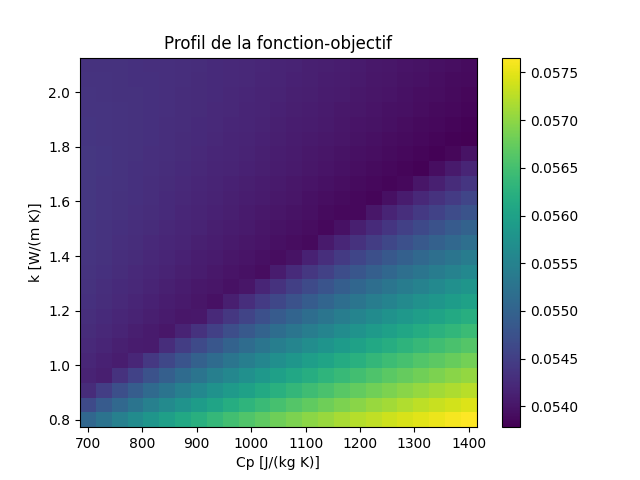
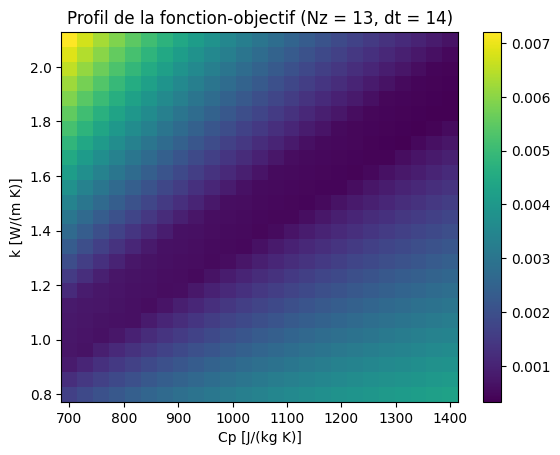
corrected

diff --git a/bagel_analyse.py b/bagel_analyse.py
@@ -83,7 +83,7 @@ plt.show()
 #%% Stabilité (Trouver nz et dt)----------------------------------------------------------------------------------------
 
 stab_crit = 0.001
-detail = 50
+detail = 100
 prm.Nz = 100
 prm.dt = 0.01
 erreur = np.array([])
@@ -119,24 +119,24 @@ ax.set_ylim(0.01)
 ax.set_xlim(0.01)
 plt.show()
 
-erreur = erreur.reshape(detail-1,detail-1).transpose()
-nz_arr = nz_arr.reshape(detail-1, detail-1).transpose()
-dt_arr = dt_arr.reshape(detail-1, detail-1).transpose()
-ax = plt.figure().add_subplot(111, projection='3d')
-ax.plot_surface(nz_arr, dt_arr, erreur*100, alpha=0.7)
-ax.set_yscale("symlog")
-ax.set_xscale("symlog")
-ax.set_title(f"Stabilité de la simulation (Cp = {prm.Cp}, k = {prm.k})")
-ax.set_xlabel("Nombre de points en z (nz)")
-ax.set_ylabel("Pas de temps (dt) [sec]")
-ax.set_zlabel("Stabilité [%]")
-ax.set_ylim(0.01)
-ax.set_xlim(0.01)
-plt.show()
+#erreur = erreur.reshape(detail-1,detail-1).transpose()
+#nz_arr = nz_arr.reshape(detail-1, detail-1).transpose()
+#dt_arr = dt_arr.reshape(detail-1, detail-1).transpose()
+#ax = plt.figure().add_subplot(111, projection='3d')
+#ax.plot_surface(nz_arr, dt_arr, erreur*100, alpha=0.7)
+#ax.set_yscale("symlog")
+#ax.set_xscale("symlog")
+#ax.set_title(f"Stabilité de la simulation (Cp = {prm.Cp}, k = {prm.k})")
+#ax.set_xlabel("Nombre de points en z (nz)")
+#ax.set_ylabel("Pas de temps (dt) [sec]")
+#ax.set_zlabel("Stabilité [%]")
+#ax.set_ylim(0.01)
+#ax.set_xlim(0.01)
+#plt.show()
 
 erreur_crit = erreur[np.less(erreur, stab_crit)]
-prm.Nz = int(nz_arr[np.where(erreur == erreur_crit[np.abs(erreur_crit - erreur_crit.mean()).argmin()])])
-prm.dt = int(dt_arr[np.where(erreur == erreur_crit[np.abs(erreur_crit - erreur_crit.mean()).argmin()])])
+prm.Nz = int(nz_arr[np.where(erreur == erreur_crit[np.abs(erreur_crit - erreur_crit.mean()).argmin()])][0])
+prm.dt = int(dt_arr[np.where(erreur == erreur_crit[np.abs(erreur_crit - erreur_crit.mean()).argmin()])][0])
 
 print(f"Pour une stabilité à {round(erreur_crit[np.abs(erreur_crit - erreur_crit.mean()).argmin()]*100, 5)} %, on peu utiliser un nz de {prm.Nz} et un pas dt de {prm.dt}")
 
@@ -157,7 +157,7 @@ for i in Cp:
 res = res.reshape(len(Cp)*len(k), 3)
 objectif = res[:, 2].reshape(len(Cp),len(k)).transpose()
 fig,ax = plt.subplots(nrows=1, ncols=1)
-ax.set_title("Profil de la fonction-objectif")
+ax.set_title(f"Profil de la fonction-objectif (Nz = {prm.Nz}, dt = {prm.dt})")
 ax.set_xlabel("Cp [J/(kg K)]")
 ax.set_ylabel("k [W/(m K)]")
 fig1 = ax.pcolormesh(Cp, k, objectif)
@@ -191,20 +191,6 @@ ax.set_xlabel("Temps [sec]")
 ax.set_ylabel("Position en z [m]")
 fig1 = ax.pcolormesh(t, z, T)
 plt.colorbar(fig1, ax=ax)
-plt.show()
-
-#%% Vérification interpolation scipy -----------------------------------------------------------------------------------
-prm = Parametre()
-
-f = interp1d(prm.hz, prm.T[0], kind='quadratic')
-print(prm.z)
-xnew = np.arange(prm.z[1], prm.z[0], 0.001)
-ynew = f(xnew)   # use interpolation function returned by `interp1d`
-plt.plot(prm.hz, prm.T[0], 'o', xnew, ynew, '-')
-plt.title("Interpolation de la température à 1 minute")
-plt.xlabel("Position en z [m]")
-plt.ylabel("Température [K]")
-plt.legend(["Valeurs expérimentales", "Interpolation"])
 plt.show()
 
 # %% Comparaison des interpolation -------------------------------------------------------------------------------------

diff --git a/bagel_fct.py b/bagel_fct.py
@@ -44,7 +44,7 @@ def interpolation_quad(z, T, prm):
     point selon une interpolation quadratique
 
     Entrées:
-        - z : [m] points de calcul de la température
+        - z : [m] point(s) de calcul de la température
         - T : [K] températures des points aux alentours
         - prm : 
             H [m] Hauteur de la pâte
@@ -119,7 +119,7 @@ def mdf_assemblage(prm):
             A[i][i] = 1 + (2 * dt * k)/(dz**2 * rho * Cp)
             A[i][i+1] = -(dt * k)/(dz**2 * rho * Cp)
             
-            b[i] = T[:, j-1][i] * (dt * k)/(dz**2 * rho * Cp)
+            b[i] = T[:, j-1][i]
         
         A[0][0] = 2*h*dz/k - 3
         A[0][1] = 4
